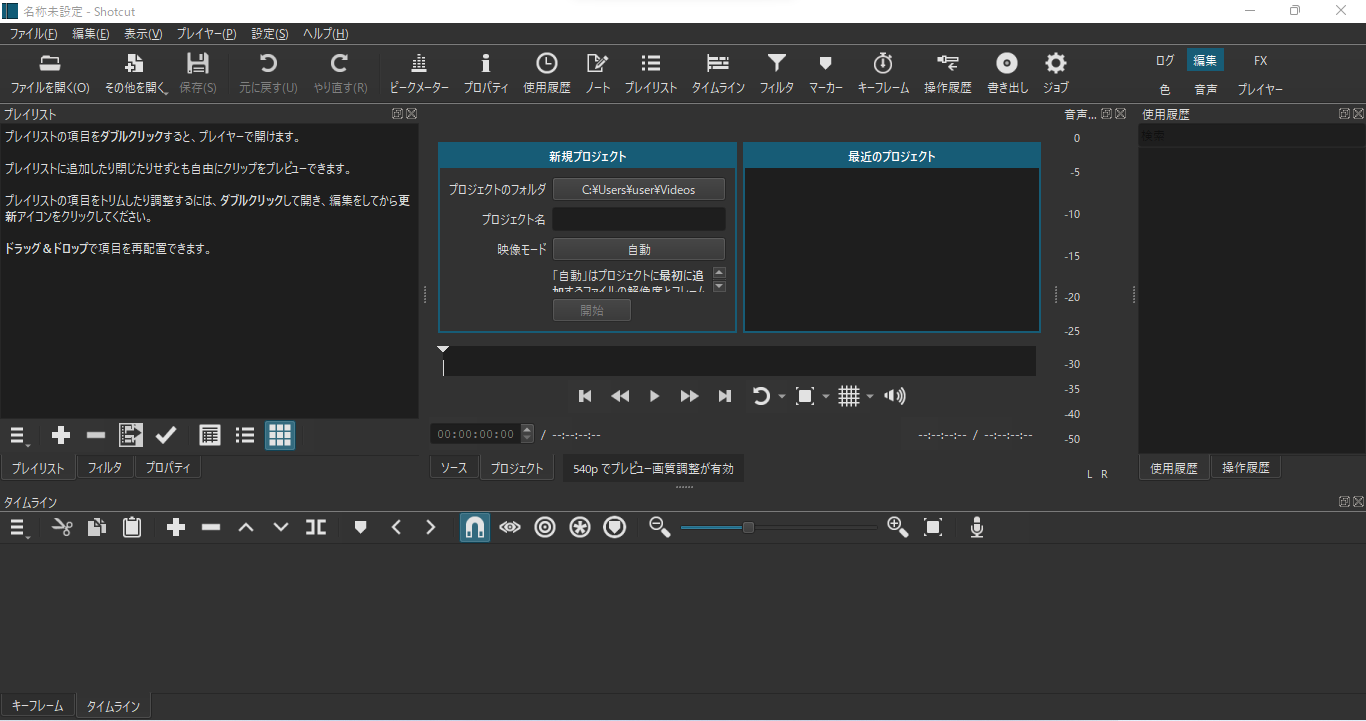
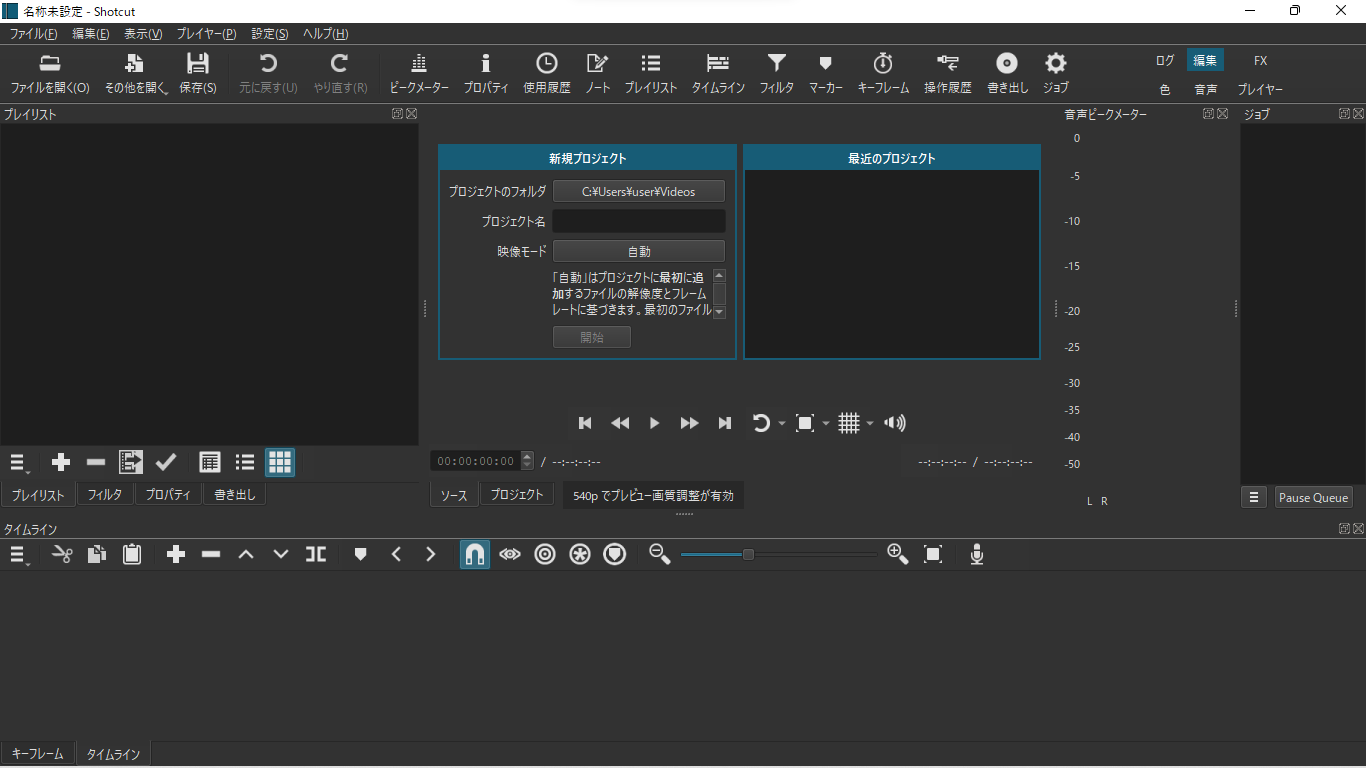
2024-05-15

diff --git a/docs/intro.html b/docs/intro.html
@@ -33,6 +33,7 @@ ul.task-list li input[type="checkbox"] {
 <meta name="quarto:offset" content="./">
 <link href="./todo.html" rel="next">
 <link href="./index.html" rel="prev">
+<link href="./favicon.ico" rel="icon">
 <script src="site_libs/quarto-html/quarto.js"></script>
 <script src="site_libs/quarto-html/popper.min.js"></script>
 <script src="site_libs/quarto-html/tippy.umd.min.js"></script>
@@ -192,6 +193,19 @@ ul.task-list li input[type="checkbox"] {
 </div>
 <p>この画面の構成は、編集レイアウトと呼ばれるものです。Shotcutにはいくつかの画面の構成（レイアウト）があり、やりたい操作をおこなううえで便利なレイアウトに切り替えながら利用することができます。</p>
 <p>一方で、多くの利用ケースでは、編集レイアウトを使っておくだけでも十分です。実際、以降の説明でも、基本的にこの編集レイアウトだけを使いながら操作を説明しています。</p>
+<div class="callout callout-style-default callout-note callout-titled">
+<div class="callout-header d-flex align-content-center">
+<div class="callout-icon-container">
+<i class="callout-icon"></i>
+</div>
+<div class="callout-title-container flex-fill">
+Note
+</div>
+</div>
+<div class="callout-body-container callout-body">
+<p>ここでは、Shotcutの「表示」メニューから「使用履歴」「操作履歴」の表示をオフに、「書き出し」「ジョブ」の表示をオンにした状態の編集レイアウトを表示しています。</p>
+</div>
+</div>
 <p>Shotcutの操作に慣れてきたら、ほかのレイアウトを試してみてもいいかもしれません。</p>
 <div class="callout callout-style-default callout-tip callout-titled">
 <div class="callout-header d-flex align-content-center">
@@ -249,7 +263,7 @@ Tip
 <section id="プレイリストに素材を取り込む" class="level2" data-number="1.3">
 <h2 data-number="1.3" class="anchored" data-anchor-id="プレイリストに素材を取り込む"><span class="header-section-number">1.3</span> プレイリストに素材を取り込む</h2>
 <p>素材ファイルをプロジェクトに取り込むには、画面左上の「プレイリスト」という領域に、追加したい素材ファイルをドラッグアンドドロップします。</p>
-<p>あるいは、画面の上部の「ファイルを開く」というアイコンから追加したいファイルを選択すると、プレイヤーに素材のプレビューが表示されるので、プレビューをプレイリストにドラッグアンドドロップすることによっても、素材をプレイリストに取り込むことができます。</p>
+<p>あるいは、画面の上部の「ファイルを開く」というアイコンから追加したいファイルを選択すると、素材のプレビューが表示されるので、プレビューをプレイリストにドラッグアンドドロップすることによっても、素材をプレイリストに取り込むことができます。</p>
 </section>
 <section id="タイムラインに素材を並べる" class="level2" data-number="1.4">
 <h2 data-number="1.4" class="anchored" data-anchor-id="タイムラインに素材を並べる"><span class="header-section-number">1.4</span> タイムラインに素材を並べる</h2>
@@ -258,14 +272,59 @@ Tip
 <p>プレイリストは、素材ファイルがパソコンのなかのどこにあるかという情報を<code>.mlt</code>ファイルに保存して管理するための機能です。</p>
 <p>取り込んだ素材を動画のなかで実際に表示・再生させるには、表示・再生させたい素材をプレイリストから選んで、画面の下部の領域に配置していきます。なお、この領域のことは「タイムライン」といいます。</p>
 <p>実際にプレイリストに素材を取り込んでから、タイムラインに配置するまでの一連の流れを確認してみましょう。</p>
-<blockquote class="blockquote">
-<p>ここに動画</p>
-</blockquote>
-<p>ここでは、</p>
-<ul>
-<li>トラック</li>
-<li>クリップ</li>
-</ul>
+<div class="youtube">
+<div class="callout callout-style-default callout-note callout-titled">
+<div class="callout-header d-flex align-content-center" data-bs-toggle="collapse" data-bs-target=".callout-5-contents" aria-controls="callout-5" aria-expanded="true" aria-label="Toggle callout">
+<div class="callout-icon-container">
+<i class="callout-icon"></i>
+</div>
+<div class="callout-title-container flex-fill">
+タイムラインに素材を配置する
+</div>
+<div class="callout-btn-toggle d-inline-block border-0 py-1 ps-1 pe-0 float-end"><i class="callout-toggle"></i></div>
+</div>
+<div id="callout-5" class="callout-5-contents callout-collapse collapse show">
+<div class="callout-body-container callout-body">
+<div id="youtube-frame" style="position: relative; padding-bottom: 56.25%; /* 16:9 */ height: 0;"><iframe width="100%" height="" style="position: absolute; top: 0; left: 0; width: 100%; height: 100%;" src="https://www.youtube.com/embed/J2qicZS9Wmw" frameborder="0" allow="accelerometer; autoplay; clipboard-write; encrypted-media; gyroscope; picture-in-picture" allowfullscreen=""></iframe></div>
+</div>
+</div>
+</div>
+</div>
+<p>ここでは、素材ファイルをプレイリストに取り込んでから、タイムラインに配置して、試しにプレビューしています。このとき、素材をタイムラインに配置していくために、動画として実際に表示・再生される「画面」を用意しています。こうした画面のことを「トラック」といいます。また、実際にトラックに配置された一つ一つの素材のことを「クリップ」と呼びます。</p>
+<div class="callout callout-style-default callout-note callout-titled">
+<div class="callout-header d-flex align-content-center">
+<div class="callout-icon-container">
+<i class="callout-icon"></i>
+</div>
+<div class="callout-title-container flex-fill">
+Note
+</div>
+</div>
+<div class="callout-body-container callout-body">
+<p>トラックには、動画ファイルや画像ファイルなどを配置して表示・再生させることができる「映像トラック」と、音声ファイルなどを配置して音声としてのみ再生させることができる「音声トラック」の2種類があります。</p>
+</div>
+</div>
+<p>トラックは、動画をつくるのに必要な数だけ作成することができます。試しに、いま見たプロジェクトに新たに映像トラックを追加して、別のクリップを重ねて表示してみましょう。</p>
+<div class="youtube">
+<div class="callout callout-style-default callout-note callout-titled">
+<div class="callout-header d-flex align-content-center" data-bs-toggle="collapse" data-bs-target=".callout-7-contents" aria-controls="callout-7" aria-expanded="true" aria-label="Toggle callout">
+<div class="callout-icon-container">
+<i class="callout-icon"></i>
+</div>
+<div class="callout-title-container flex-fill">
+クリップを重ねて表示する
+</div>
+<div class="callout-btn-toggle d-inline-block border-0 py-1 ps-1 pe-0 float-end"><i class="callout-toggle"></i></div>
+</div>
+<div id="callout-7" class="callout-7-contents callout-collapse collapse show">
+<div class="callout-body-container callout-body">
+<div id="youtube-frame" style="position: relative; padding-bottom: 56.25%; /* 16:9 */ height: 0;"><iframe width="100%" height="" style="position: absolute; top: 0; left: 0; width: 100%; height: 100%;" src="https://www.youtube.com/embed/MufLPIOxIxY" frameborder="0" allow="accelerometer; autoplay; clipboard-write; encrypted-media; gyroscope; picture-in-picture" allowfullscreen=""></iframe></div>
+</div>
+</div>
+</div>
+</div>
+<p>ここでは、画像ファイルを新たに素材としてプレイリストに取り込んでいます。それから、先ほどつくった「トラック1」の上に、新たに「トラック2」を追加し、取り込んだ素材を「トラック2」にクリップとして配置しています。</p>
+<p>動画（プロジェクト）は、このように画面（トラック）の重なりとして表現されます。タイムライン上で重なっているクリップは、それぞれ別々のトラックに配置したものであっても、同じタイミングで表示・再生されます。なお、クリップが何も配置されていない空のトラックを表示・再生すると、通常は黒い画面が無音で表示・再生されます。</p>
 <div class="callout callout-style-default callout-tip callout-titled">
 <div class="callout-header d-flex align-content-center">
 <div class="callout-icon-container">

diff --git a/docs/index.html b/docs/index.html
@@ -32,6 +32,7 @@ ul.task-list li input[type="checkbox"] {
 <script src="site_libs/quarto-search/quarto-search.js"></script>
 <meta name="quarto:offset" content="./">
 <link href="./intro.html" rel="next">
+<link href="./favicon.ico" rel="icon">
 <script src="site_libs/quarto-html/quarto.js"></script>
 <script src="site_libs/quarto-html/popper.min.js"></script>
 <script src="site_libs/quarto-html/tippy.umd.min.js"></script>
@@ -143,7 +144,6 @@ ul.task-list li input[type="checkbox"] {
   <ul>
   <li><a href="#はじめに" id="toc-はじめに" class="nav-link active" data-scroll-target="#はじめに">はじめに</a>
   <ul class="collapse">
-  <li><a href="#この資料について" id="toc-この資料について" class="nav-link" data-scroll-target="#この資料について">この資料について</a></li>
   <li><a href="#shotcutとは" id="toc-shotcutとは" class="nav-link" data-scroll-target="#shotcutとは">Shotcutとは</a></li>
   <li><a href="#why-shotcut" id="toc-why-shotcut" class="nav-link" data-scroll-target="#why-shotcut">Why Shotcut?</a></li>
   </ul></li>
@@ -179,12 +179,12 @@ ul.task-list li input[type="checkbox"] {
 
 <section id="はじめに" class="level1 unnumbered">
 <h1 class="unnumbered">はじめに</h1>
-<section id="この資料について" class="level2">
-<h2 class="anchored" data-anchor-id="この資料について">この資料について</h2>
-<p>この資料は、Shotcutの基本的な使い方を紹介するものです。</p>
-</section>
+<blockquote class="blockquote">
+<p><a href="https://www.flaticon.com/free-icons/video-editing">Video editing icons created by Freepik - Flaticon</a></p>
+</blockquote>
 <section id="shotcutとは" class="level2">
 <h2 class="anchored" data-anchor-id="shotcutとは">Shotcutとは</h2>
+<p>この資料は、Shotcutの基本的な使い方を紹介するものです。</p>
 </section>
 <section id="why-shotcut" class="level2">
 <h2 class="anchored" data-anchor-id="why-shotcut">Why Shotcut?</h2>

diff --git a/docs/filter.html b/docs/filter.html
@@ -32,6 +32,7 @@ ul.task-list li input[type="checkbox"] {
 <script src="site_libs/quarto-search/quarto-search.js"></script>
 <meta name="quarto:offset" content="./">
 <link href="./todo.html" rel="prev">
+<link href="./favicon.ico" rel="icon">
 <script src="site_libs/quarto-html/quarto.js"></script>
 <script src="site_libs/quarto-html/popper.min.js"></script>
 <script src="site_libs/quarto-html/tippy.umd.min.js"></script>

diff --git a/docs/todo.html b/docs/todo.html
@@ -33,6 +33,7 @@ ul.task-list li input[type="checkbox"] {
 <meta name="quarto:offset" content="./">
 <link href="./filter.html" rel="next">
 <link href="./intro.html" rel="prev">
+<link href="./favicon.ico" rel="icon">
 <script src="site_libs/quarto-html/quarto.js"></script>
 <script src="site_libs/quarto-html/popper.min.js"></script>
 <script src="site_libs/quarto-html/tippy.umd.min.js"></script>
